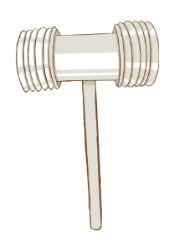
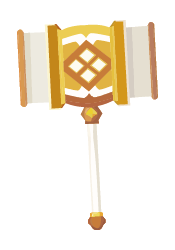
feat NewHammer img & SetSkin SetPuckSkin in PlayerStatus Manager
feat NewHammer img & SetSkin SetPuckSkin in PlayerStatus Manager

Changed region(s): [[0.0857, 0.056, 0.9143, 0.924]]

diff --git a/Assets/Scripts/FightGame/ConfigGlobalIndex/FightPlayer2Config.cs b/Assets/Scripts/FightGame/ConfigGlobalIndex/FightPlayer2Config.cs
@@ -4,12 +4,13 @@
 
 public static class FightPlayer2Config
 {
-	public static string[] Group = { "MS00", "MS00", "MS00" };
+	public static string[] Group = { "MS01", "MS01", "MS01" };
 	public static string NormalAttack = "OriginSlimeNormalAttack";
 	public static string Ult = "HammerUlt";
 	public static bool isMonster = true;
 
-	public static string PlayerSkin;
+	public static string PlayerSkin = "OriginSlime";
+	public static string PuckSkin = "Chapter1SlimePuck3";
 	public static int StartHP = 1000;
 	public static int NowHP = 1000;
 	public static int StartATK = 80;

diff --git a/Assets/Scripts/FightGame/ConfigGlobalIndex/FightPlayer1Config.cs b/Assets/Scripts/FightGame/ConfigGlobalIndex/FightPlayer1Config.cs
@@ -8,7 +8,7 @@ public static class FightPlayer1Config
 	public static string NormalAttack = "HammerNormalAttack";
 	public static string Ult = "HammerUlt";
 
-	public static string PlayerSkin;
+	public static string PlayerSkin = "BigHammerLionRex";
 	public static int StartHP = 1500;
 	public static int NowHP = 1500;
 	public static int StartATK = 100;
